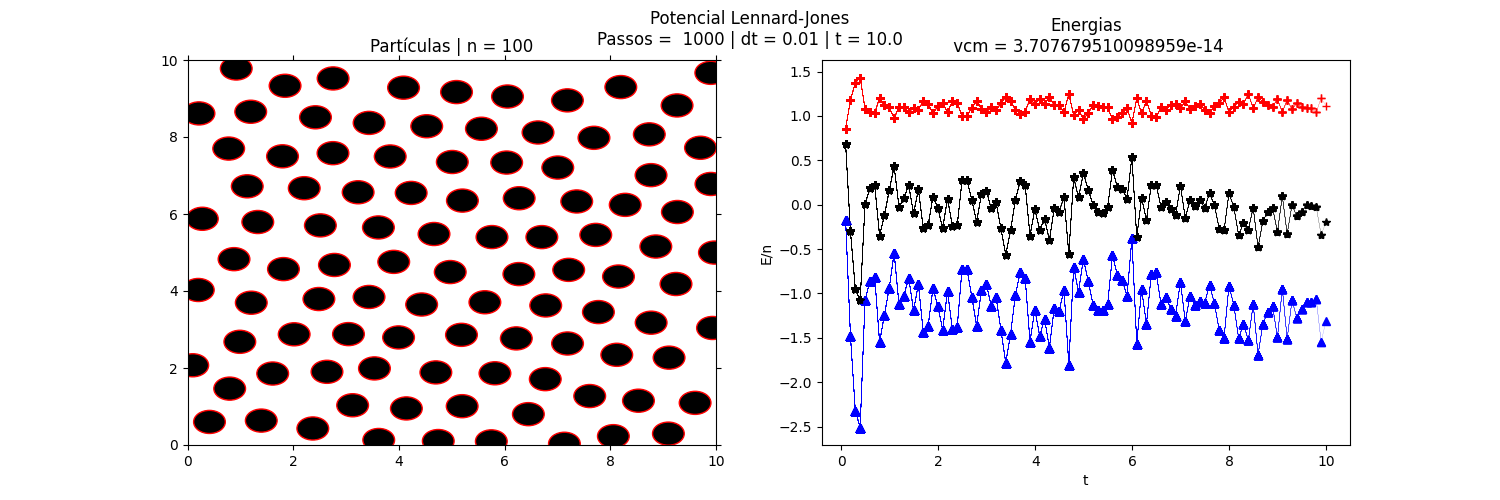
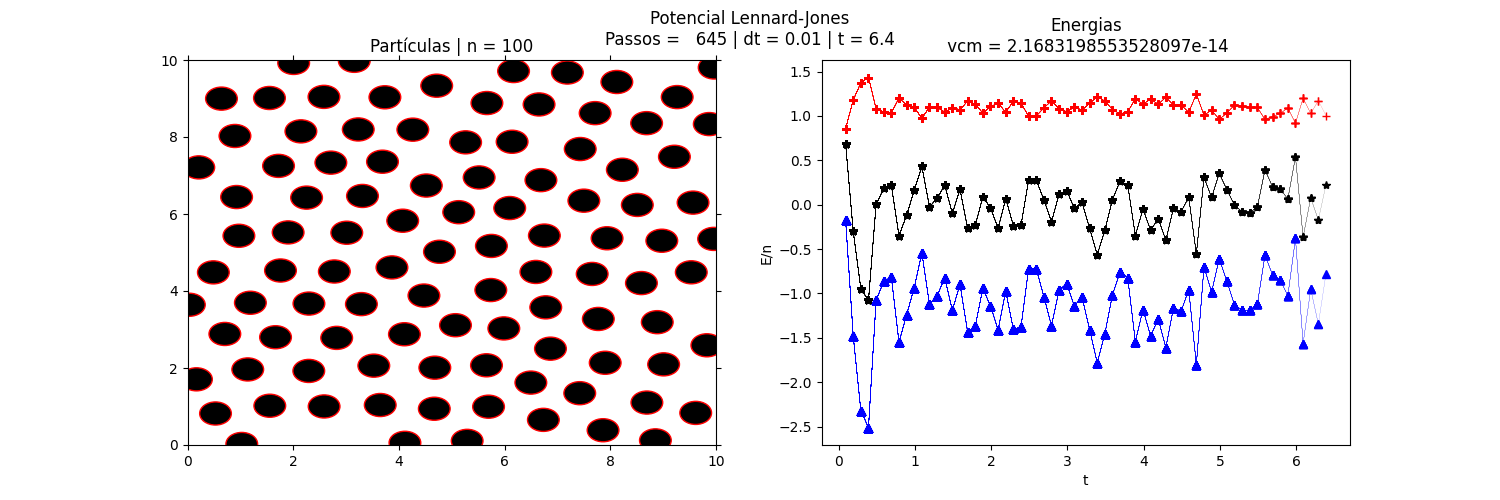
Atualização

diff --git a/MetCompC/aula10/montecarloC.py b/MetCompC/aula10/montecarloC.py
@@ -1,33 +1,26 @@
+'''
+Estudando a divergência de x**l usando Monte Carlo
+'''
 import numpy as np
-import matplotlib.pyplot as plt
 import random as rand
 
 
-def montecarlo(fx, inf, sup):
-    xi = list()    
+def montecarlo(fx, inf, sup, n):
+    xi = np.asarray(list(rand.uniform(inf, sup) for i in range(n)))
+    fxi = fx(xi)
+    integ = (sup - inf) * (sum(fxi)/n)
+    var = np.var(fxi, ddof=1)
+    std = np.sqrt(var)
+    return integ, std, var
 
-l = np.arange(0, -1, -1)
 
-fx = lambda x: x**l
-sup = 1
+lamb = np.arange(0, -1.1, -0.1)
+
 inf = 0
-esq = 
-dir
-n = 1000
-
-ns = np.arange(1, n)
-itent = []
-imed = []
-for i in ns:
-    itent.append(montecarlotnterr(fx, 10, 0, 0, np.pi, i))
-    imed.append(montecarlomed(fx, 0, np.pi, i))
-
-
-plt.plot(ns, itent, label='Tentativa e Erro')
-#plt.plot(ns, imed, label='Amostragem Média')
-plt.xlabel('N')
-plt.ylabel('Integral')
-plt.legend()
-plt.grid()
-plt.savefig("funcaomontecarlo.png")
-
+sup = 1
+n = 10000
+print(f'Lambda | Monte Carlo | std')
+for l in lamb:
+    fx = lambda x: x ** l
+    intg, std, var = montecarlo(fx, inf, sup, n)
+    print(f'{l:<6.1f} | {intg:.8f}  | {std}')

diff --git a/MetCompC/aula9/lj_trunc_new.py b/MetCompC/aula9/lj_trunc_new.py
@@ -372,22 +372,19 @@ def dinmol(l, n, r, di, eps, sig, T, tf, dt, s, ci='Random'):
 
     # Plot do MSD
     #igualar os tamanhos
-    print(drs[0])
-    print(drs[1])
-    print(drs[2])  
     sizes = []
     for j in range(s):
-        sizes.append(len(drs[i]))
+        sizes.append(len(drs[j]))
     sz = min(sizes)
     for j in range(s):
-        if len(drs[i]) > sz:
-            drs[i].pop()
+        if len(drs[j]) > sz:
+            drs[j].pop()
 
     msd = np.asarray(drs[0])
     for i in range(1, s):
         msd += np.asarray(drs[i])
     msd = msd/s
-    tm = np.arange(teq * tmax, tmax, dt)
+    tm = np.linspace(teq * tmax, tmax+dt, len(msd))
     plt.subplot(122)
     plt.plot(tm, msd)
     plt.xlabel('t (s)')
@@ -415,7 +412,7 @@ di = .4
 eps = 1
 sig = 1
 T = .5
-tf = 7
+tf = 6.45
 dt = .01
 s = 3
 ci = 'Triangulo'
@@ -423,4 +420,5 @@ dinmol(l, n, r, di, eps, sig, T, tf, dt, s, ci)
 
 '''
 Essa energia total tá certa?
+Talvez o msd esteja certo agora
 '''

diff --git a/MetCompC/aula10/dogs_flea.py b/MetCompC/aula10/dogs_flea.py
@@ -1,0 +1,38 @@
+'''
+É o exercício da urna:
+Consider two urns A and B and a certain number N of balls numbered from 1 to N.
+Initially, the balls are placed on urn A. Next, one of the balls is chosen at random
+and transferred to the other urn. This procedure is then repeated at each time step.
+We wish to determined the probability Pl(n) of having n balls in urn A at time l.
+'''
+import numpy as np
+import matplotlib.pyplot as plt
+import scipy.stats as st
+
+
+def dogflea(n, tf):
+    '''
+    1 = urna A
+    0 = urna B
+    '''
+    bolas = np.ones(n)
+    prob = []
+    for t in range(tf):
+        ind = np.random.randint(0, n)
+        if bolas[ind] == 1:
+            bolas[ind] = 0
+        else:
+            bolas[ind] = 1
+        prob.append(sum(bolas)/n)
+    return prob
+
+
+n = 100
+tf = 10000
+probs = dogflea(n, tf)
+
+plt.hist(probs, bins=100)
+plt.grid()
+plt.xlabel('P')
+plt.ylabel('frequnência')
+plt.show()

diff --git a/MetCompC/aula10/MC_1.py b/MetCompC/aula10/MC_1.py
@@ -1,0 +1,27 @@
+'''
+Pedras e pi
+'''
+import numpy as np
+import random as rand
+
+
+def montecarlotnterr(fx, infx, supx, infy, supy, n):
+    xs = list(rand.uniform(infx, supx) for i in range(n))
+    ys = list(rand.uniform(infy, supy) for i in range(n))
+    ni = 0
+    for x, y in zip(xs, ys):
+        if y <= fx(x):
+            ni += 1
+    return (ni/n) * ((supx - infx) * (supy - infy))
+
+
+fx = lambda x: np.sqrt(1-x**2)
+infx = 0
+supx = 1
+infy = 0
+supy = 1
+n = [100, 1000, 10000, 100000, 1000000]
+print(' n    |  Pi/4  | Monte Carlo')
+for ni in n:
+    integ = montecarlotnterr(fx, infx, supx, infy, supy, ni)
+    print(f'{ni:7<} | {np.pi/4:.6f} | {integ:.6f}')
